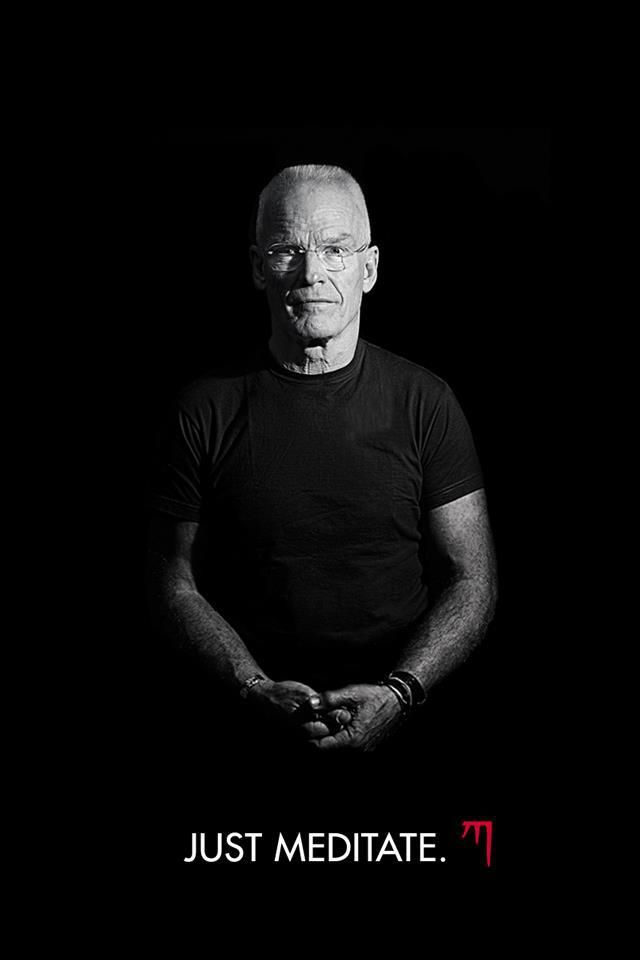
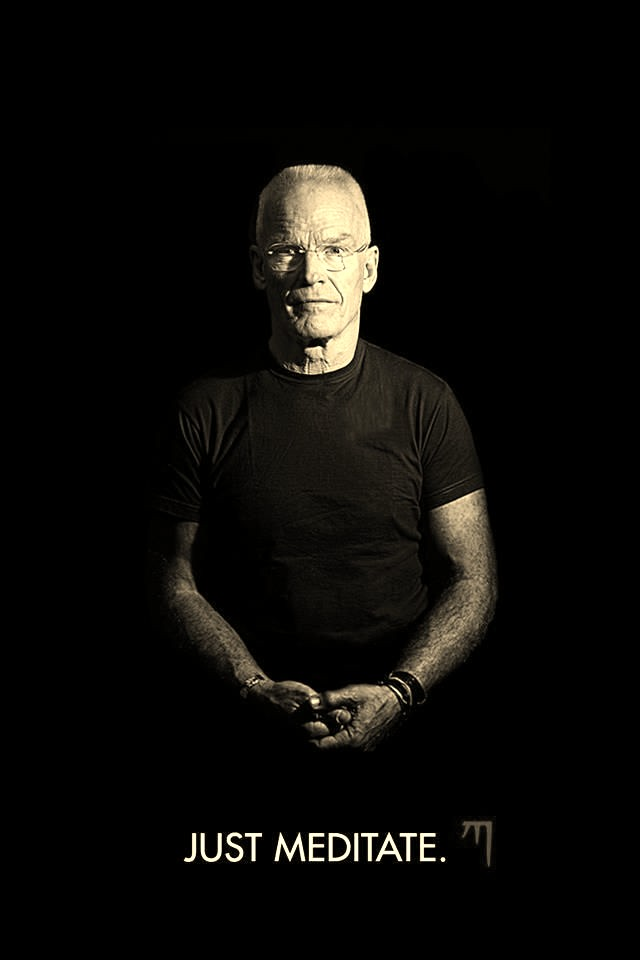
Add files via upload

diff --git a/kurs-zg.html b/kurs-zg.html
@@ -63,14 +63,36 @@ input,textarea,select{font-family:inherit;}
   min-height:100vh;
   display:flex;
   flex-direction:column;
-  justify-content:center;
-  align-items:center;
-  padding:32px 24px;
   max-width:560px;
   margin:0 auto;
-  background:
-    linear-gradient(180deg, rgba(10,10,10,0.55) 0%, rgba(10,10,10,0.72) 55%, rgba(10,10,10,0.88) 100%),
-    url('just-meditate.jpg') center top / cover no-repeat;
+  background:#3A2E22;
+}
+.login-photo-wrap{
+  width:100%;
+  position:relative;
+  line-height:0;
+  flex-shrink:0;
+}
+.login-photo-img{
+  width:100%;
+  height:auto;
+  display:block;
+}
+.login-photo-wrap::after{
+  content:'';
+  position:absolute; left:0; right:0; bottom:0; height:110px;
+  background: linear-gradient(180deg, rgba(58,46,34,0) 0%, #3A2E22 100%);
+}
+.login-content{
+  flex:1;
+  display:flex;
+  flex-direction:column;
+  justify-content:center;
+  align-items:center;
+  padding:14px 24px 32px;
+  margin-top:-30px;
+  position:relative;
+  z-index:1;
 }
 .login-logo-plaque{
   background:#fff;
@@ -85,11 +107,20 @@ input,textarea,select{font-family:inherit;}
   height:auto;
   display:block;
 }
-.login-wrap h1{font-size:1.7rem;margin:0 0 4px;text-align:center;color:#fff;}
-.login-sub{color:rgba(255,255,255,0.78);font-size:0.95rem;margin:0 0 32px;text-align:center;line-height:1.5;}
+.login-wrap h1{
+  font-family:'Inter',sans-serif;
+  font-weight:800;
+  text-transform:uppercase;
+  letter-spacing:0.03em;
+  font-size:1.6rem;
+  margin:0 0 4px;
+  text-align:center;
+  color:#F3E9D8;
+}
+.login-sub{color:rgba(243,233,216,0.78);font-size:0.95rem;margin:0 0 32px;text-align:center;line-height:1.5;}
 .field{width:100%;margin-bottom:14px;}
 .field label{display:block;font-size:0.8rem;color:var(--ink-soft);margin-bottom:6px;font-weight:500;}
-.login-wrap .field label{color:rgba(255,255,255,0.78);}
+.login-wrap .field label{color:rgba(243,233,216,0.78);}
 .field input, .field textarea{
   width:100%;
   padding:12px 14px;
@@ -526,6 +557,10 @@ function renderLogin(){
   const saved = getSavedLogin();
   return `
   <div class="login-wrap">
+    <div class="login-photo-wrap">
+      <img src="just-meditate.jpg" alt="Just meditate" class="login-photo-img">
+    </div>
+    <div class="login-content">
     <h1>KURSY ZG</h1>
     <p class="login-sub">Program kursu, posiłki do obstawienia, aktualności.</p>
     <div class="field">
@@ -536,12 +571,13 @@ function renderLogin(){
       <label for="loginPass">Hasło</label>
       <input id="loginPass" type="password" placeholder="hasło do tablicy" autocomplete="current-password" value="${escapeHtml(saved?.password || '')}">
     </div>
-    <label class="check-row" style="color:rgba(255,255,255,0.78);margin:-4px 0 18px;">
+    <label class="check-row" style="color:rgba(243,233,216,0.78);margin:-4px 0 18px;">
       <input type="checkbox" id="loginRemember" ${saved ? 'checked' : ''}>
       <span>Zapamiętaj mnie na tym urządzeniu</span>
     </label>
     ${state.loginError ? `<div class="error-msg">${escapeHtml(state.loginError)}</div>` : ''}
     <button class="btn btn-gold" style="width:100%;padding:13px;" id="loginBtn">Wejdź</button>
+    </div>
   </div>`;
 }
 function attachLoginEvents(){
